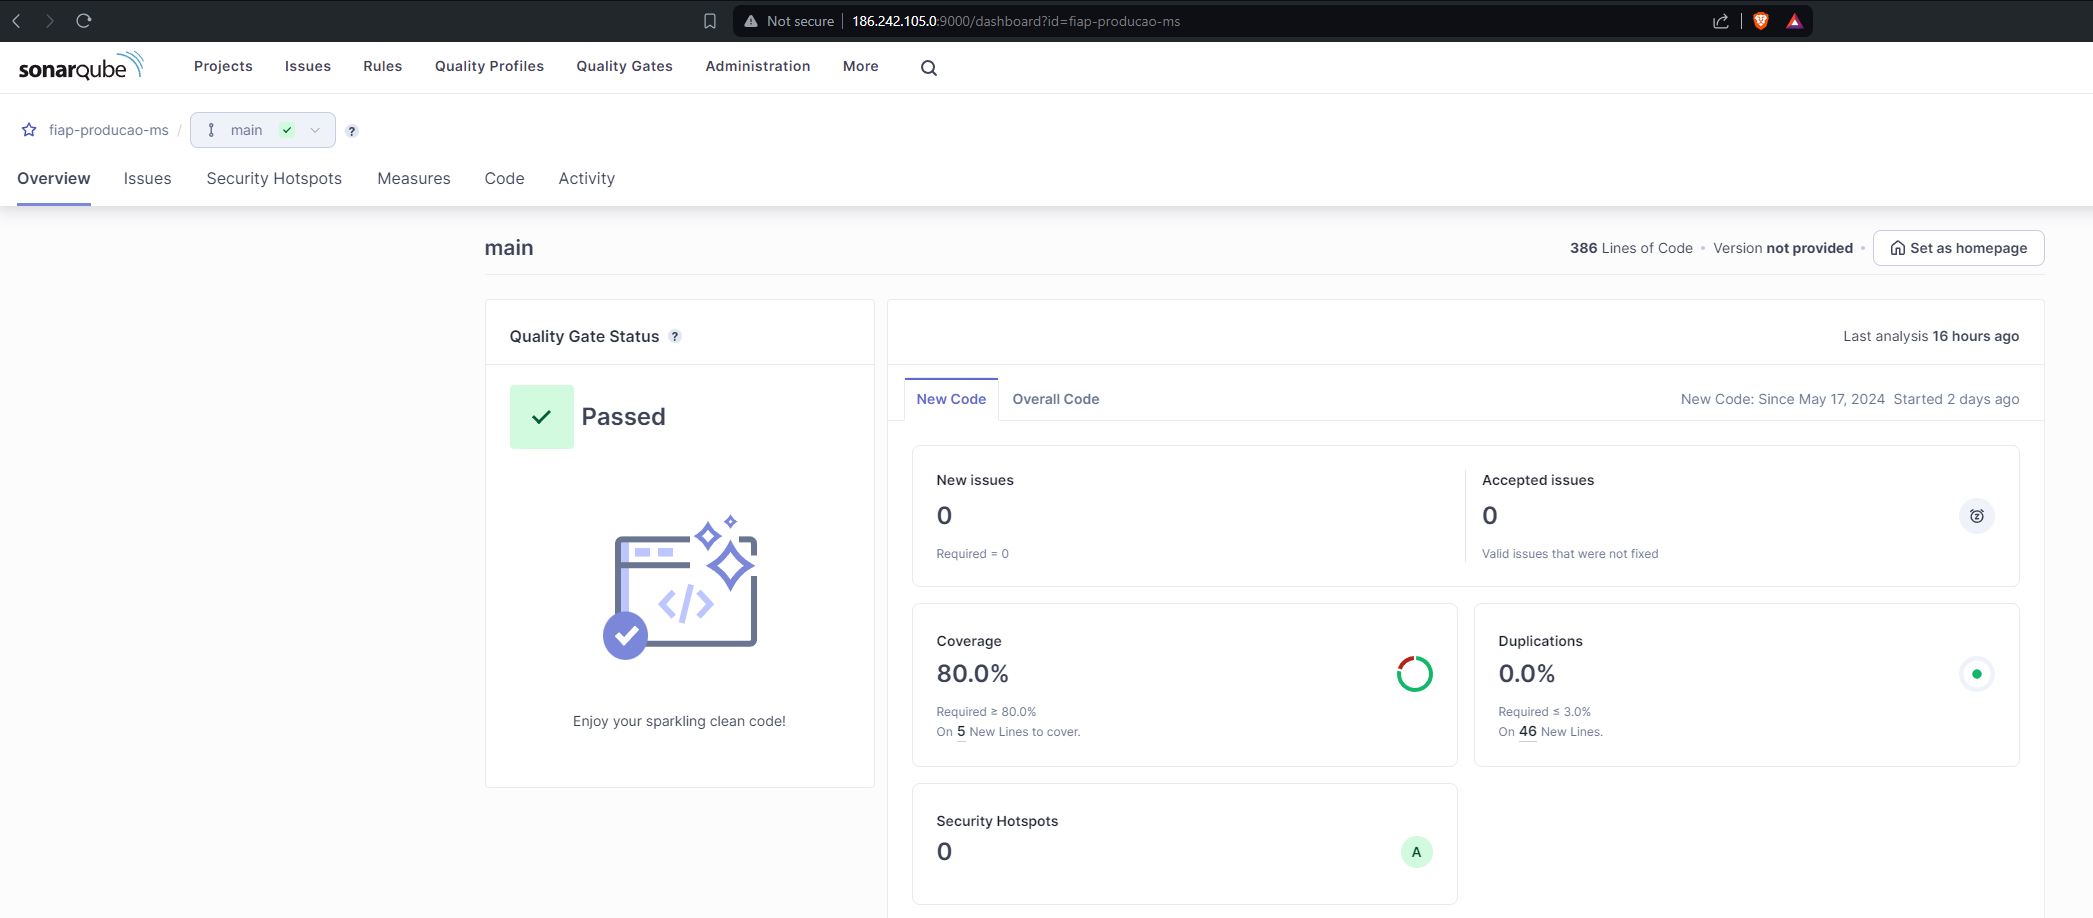
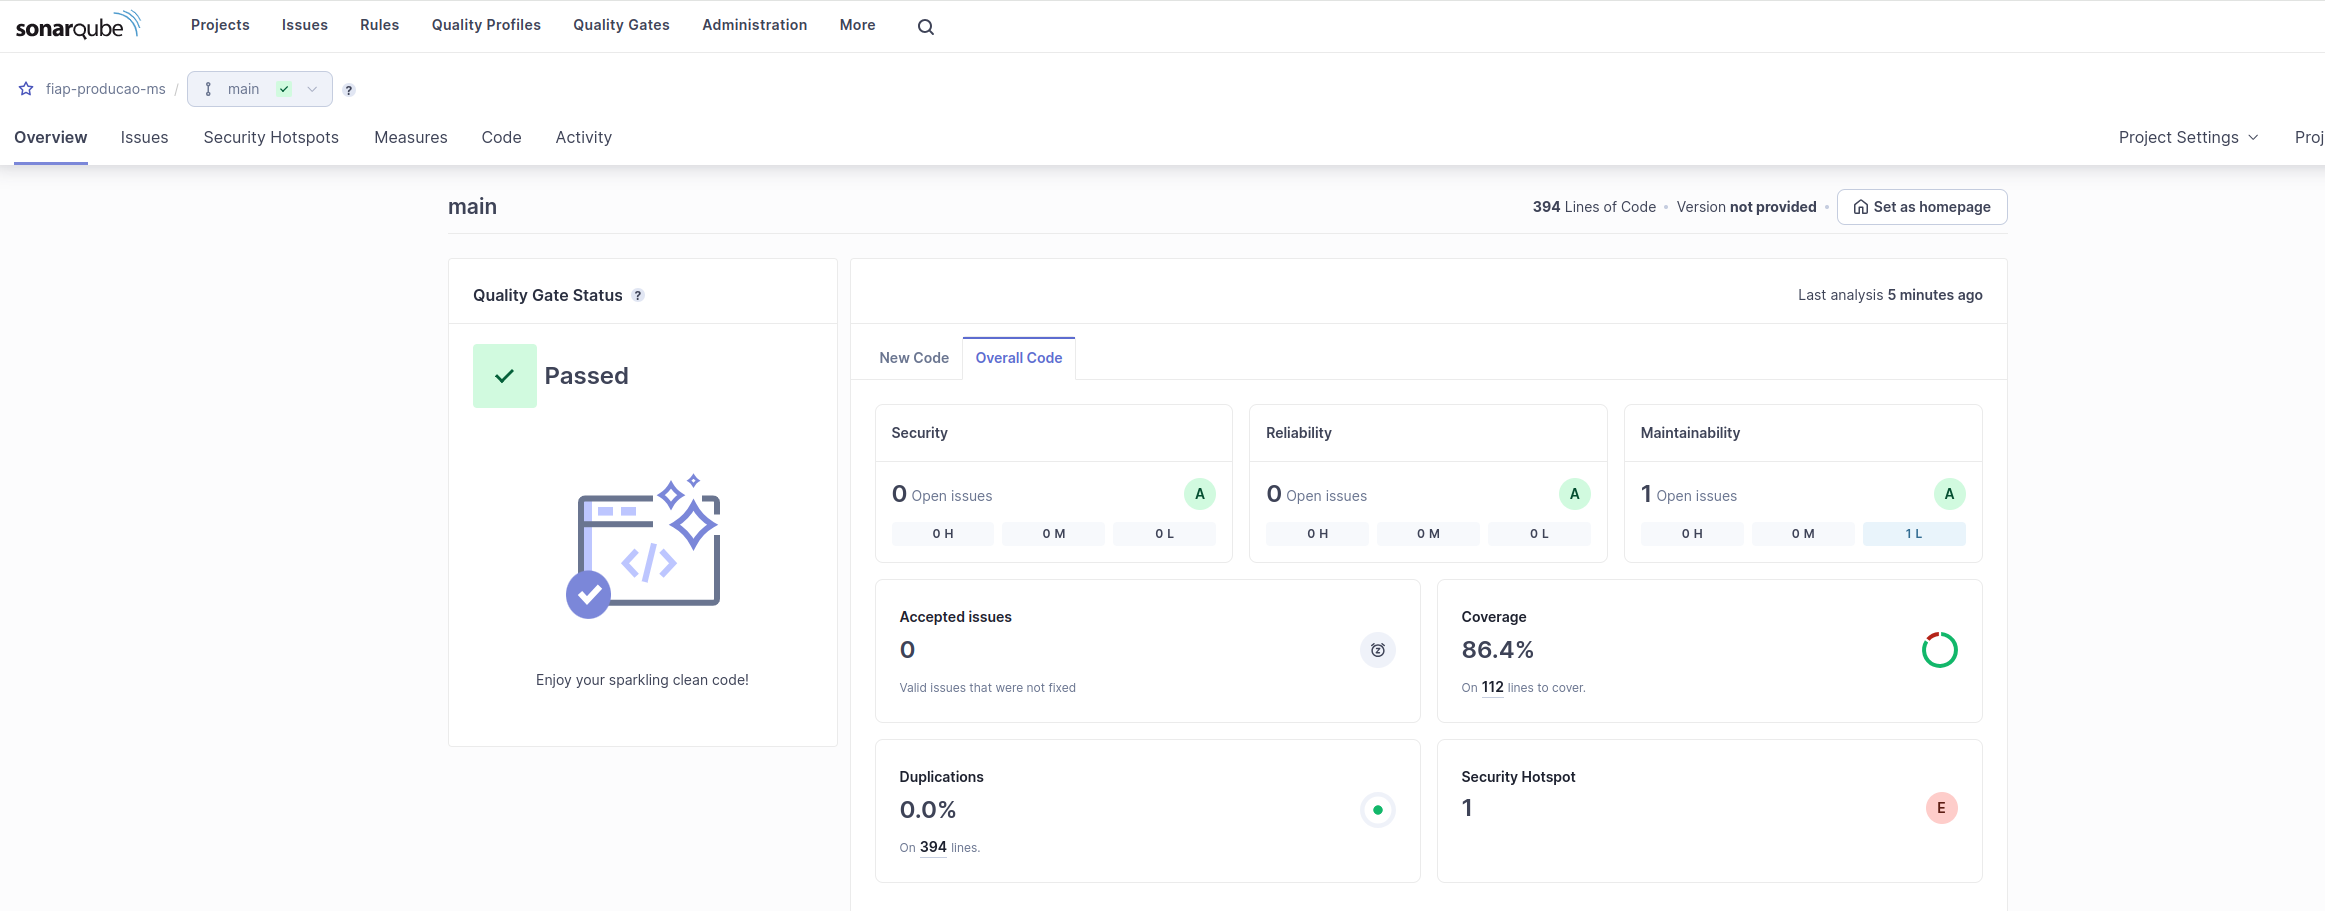
altera a imagem

diff --git a/README.md b/README.md
@@ -29,7 +29,7 @@
 <div align="center">
   <h1 align="center">FIAP-PRODUCAO-MS SONAR</h1>
   <img src="https://github.com/Marques0x01/fiap-pedidos-ms/blob/main/sonar_all.png" alt="Logo da Empresa" />
-  <img src="https://github.com/Marques0x01/fiap-pedidos-ms/blob/main/sonar_order.png" alt="Logo da Empresa" />
+  <img src="https://github.com/Marques0x01/fiap-pedidos-ms/blob/main/sonar_producao.png" alt="Logo da Empresa" />
 </div>
 
 
